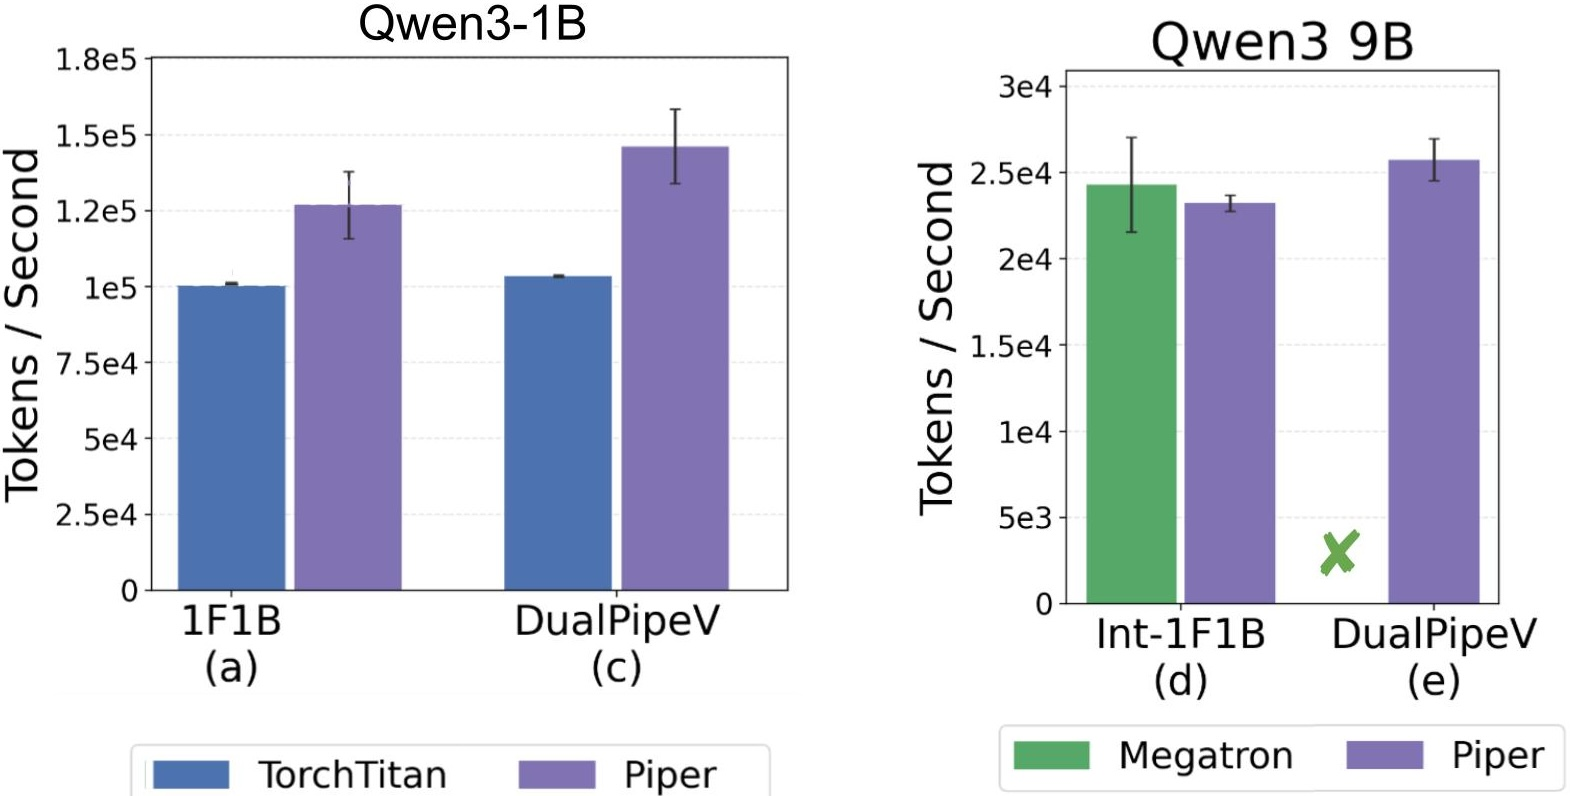
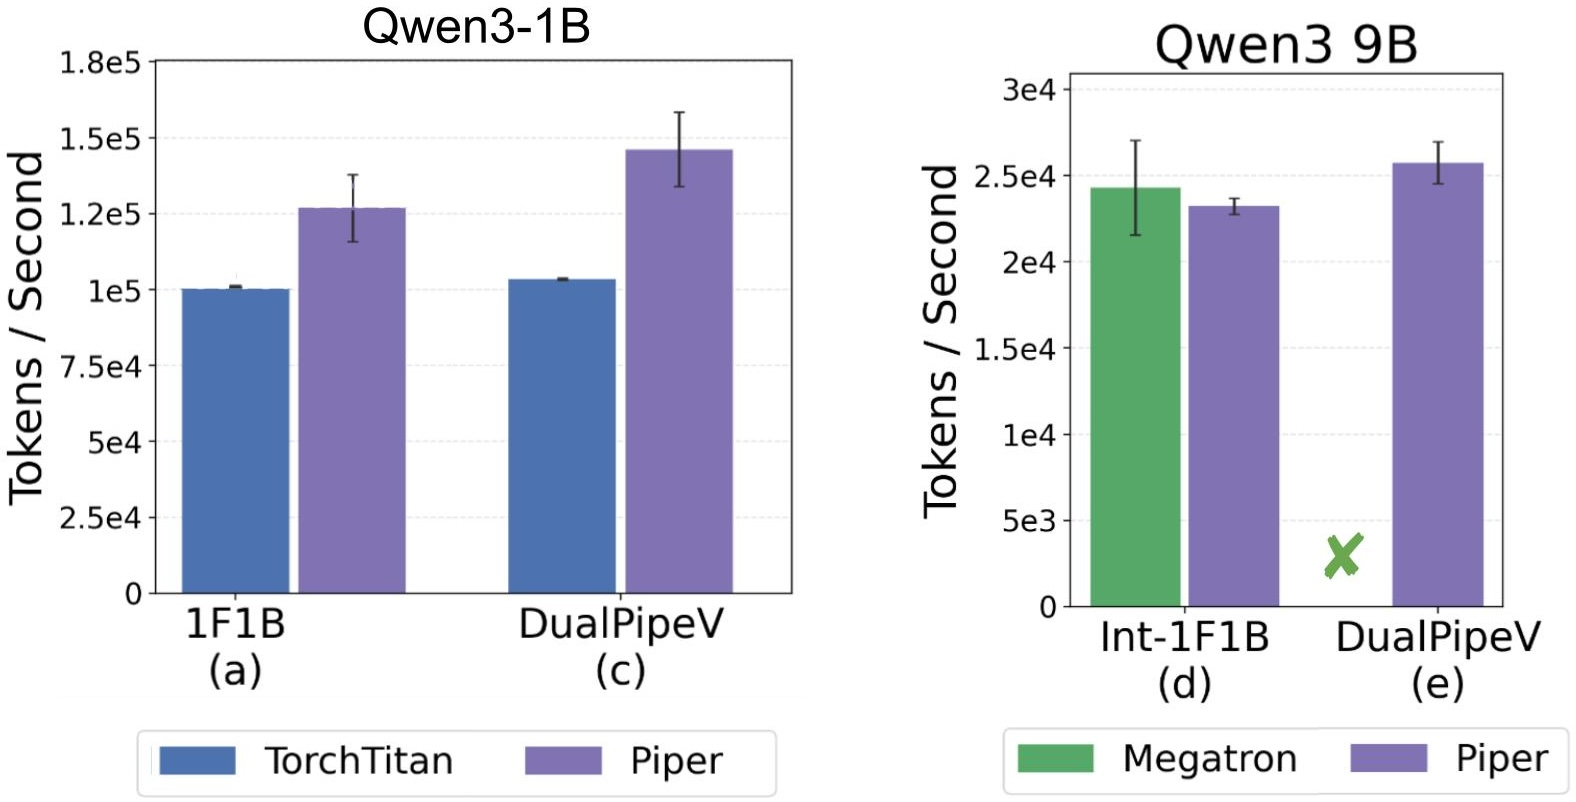
Piper blog fixes and arxiv link (#43)
* piper blog post

* update tldr

* shubham feedback

* Update _posts/2026-06-05-piper.md

* Update _posts/2026-06-05-piper.md

* Update _posts/2026-06-05-piper.md

* add tensor parallelism

* key idea transition

* Update _posts/2026-06-05-piper.md

* Update _posts/2026-06-05-piper.md

* Update _posts/2026-06-05-piper.md

* stephanie feedback

* excerpt nit

* higher image res

* fix links

* fix links

* michael feedback

* fix links

* minor fixes: img res and figure captions

* small fixes

* arxiv link

* merge fix

---------

diff --git a/_posts/2026-06-05-piper.md b/_posts/2026-06-05-piper.md
@@ -3,7 +3,7 @@ layout: post
 title: "Introducing Piper: A Programmable Distributed Training System"
 date: 2026-06-05
 author: "Megan Frisella, Shubham Tiwari, Andy Ruan, Yi Pan, Parker Gustafson, Mat Jacob, Gilbert Bernstein, Stephanie Wang"
-excerpt: "Piper is a programmable distributed training system that uses model annotations and scheduling directives to express model placement, pipeline scheduling, and GPU stream scheduling."
+excerpt: "We present Piper, a programmable distributed training system that uses model annotations and scheduling directives to express model placement, pipeline scheduling, and GPU stream scheduling."
 ---
 
 **TL;DR:** New distributed training strategies and optimizations should not require new distributed runtimes.
@@ -14,7 +14,7 @@ Today, ML researchers and practitioners choose between building one-off speciali
 implementation.
 With lightweight model annotations and a small scheduling language, Piper lets users express, visualize, profile, and run high-performance training schedules such as DualPipe-style pipeline- and expert-parallel overlap.
 
-- paper: arXiv release pending
+- paper: [https://arxiv.org/pdf/2606.11169](https://arxiv.org/pdf/2606.11169)
 - code: [https://github.com/uw-syfi/piper](https://github.com/uw-syfi/piper)
 
 ---
@@ -33,7 +33,8 @@ Composing parallelism strategies is not one-size-fits-all; the right choice depe
 Figure 1 depicts a mixture-of-experts (MoE) model with pipeline parallelism across layers and data/expert parallelism within layers. 
 
 {: style="text-align:center"}
-![PP x EP x DP placement for a DualPipe-style MoE example.](/assets/img/blog/2026-06-05-piper/placement.png)
+![PP x EP x DP placement for a DualPipe-style MoE example.](/assets/img/blog/2026-06-05-piper/placement.jpg)
+
 ***Figure 1.** A PP x EP x DP placement for a mixture-of-experts model.
 Pipeline parallelism places layers across stages, expert parallelism shards expert MLPs, and data parallelism replicates non-expert components like attention.*
 
@@ -51,6 +52,7 @@ Figure 2 shows a [DualPipe schedule variant](https://huggingface.co/blog/ufotale
 
 {: style="text-align:center"}
 ![DualPipeV pipeline schedule.](/assets/img/blog/2026-06-05-piper/dualpipe.jpg)
+
 ***Figure 2.** DualPipeV schedule for 2-way PP and 4 microbatches. 
 Numbers are microbatch IDs.
 The bolded cells are overlapped forward-backward microbatch pairs.*
@@ -60,6 +62,7 @@ Figure 3 shows different GPU scheduling choices, where streams represent GPU par
 
 {: style="text-align:center"}
 ![Communication stream tradeoffs.](/assets/img/blog/2026-06-05-piper/streams.jpg)
+
 ***Figure 3.** Stream scheduling choices for DP all-reduce and EP all-to-all in an overlapped microbatch pair.
 The best choice depends on kernel running times, dispatch ordering, and critical-path dependencies.*
 
@@ -93,6 +96,7 @@ Each worker manages local CUDA streams, communicators, model-state buffers, and 
 
 {: style="text-align:center"}
 ![Piper architecture.](/assets/img/blog/2026-06-05-piper/architecture.jpg)
+
 ***Figure 4.** Piper's architecture.
 The user provides an annotated model and schedule; Piper compiles them into a global training DAG and executes per-worker sub-DAGs with a distributed runtime.*
 
@@ -366,6 +370,7 @@ The simple pipeline schedule from the demo emits the following visualization:
 
 {: style="text-align:center"}
 ![Pipeline schedule with overlapped microbatches](/assets/img/blog/2026-06-05-piper/schedule.png)
+
 ***Figure 5.** A simple pipeline schedule with 2-way PP, 2 microbatches, and an overlapped forward-backward microbatch pair.*
 
 The second utility is a DAG IR visualization.
@@ -374,6 +379,7 @@ This helps identify how operators will be overlapped on the GPU.
 
 {: style="text-align:center"}
 ![Training DAG snippet](/assets/img/blog/2026-06-05-piper/dag.png)
+
 ***Figure 6.** DAG IR snippet for an overlapped forward-backward microbatch pair.*
 
 This is a snippet of the PP rank 1 (GPUs 1 and 3) training DAG for our working example.
@@ -384,11 +390,12 @@ The topological order (identified by `topo=x`) identifies the runtime dispatch o
 Piper uses temporal dependencies to enforce overlapping by constraining total orderings per logical stream (e.g. `ep_stream` comms all have unique `topo` index, and the same goes for `dp_stream` comms).
 Runtime scheduling heuristics resolve ambiguous topological ordering across streams by prioritizing `SEND` > all other nodes > `RECV` to avoid point-to-point communication interference. 
 
-The last visualization utility is custom PyTorch profiler which labels the GPU kernels associated with each DAG IR node.
-Figure 7 shows the profiler trace for an overlapped forward-backward microbatch.
+The last visualization utility is custom PyTorch profiler support which combines the profiles for all the PP ranks in each SPMD group and labels the GPU kernels associated with each DAG IR node.
+Figure 7 shows the profiler trace for an overlapped forward-backward microbatch on PP rank 1 of our working example.
 
 {: style="text-align:center"}
 ![PyTorch profile](/assets/img/blog/2026-06-05-piper/profile.jpg)
+
 ***Figure 7.** Profile for an overlapped forward-backward microbatch pair. EP and DP collective communications are completely hidden.*
 
 All-to-all kernels on the EP stream and all-reduce kernels on the DP stream are completely overlapped with computation.
@@ -405,7 +412,7 @@ We hope that researchers will implement new schedule builders to experiment with
 We imagine the pipeline schedule visualizer will help with visual debugging. 
 Piper also has safe guards which require `order` directives to respect the model's dataflow and device placement.
 
-We will walk through our [DualPipeV](https://huggingface.co/blog/ufotalent/cut-in-half) schedule builder at a high level.
+We will walk through our [DualPipeV schedule builder](https://github.com/uw-syfi/piper/blob/c531ef669b32402ebf8f7eafec37ae2f37e1ac8e/examples/build_schedule.py#L201) at a high level.
 
 ```python
 def build_dualpipev_schedule(n_ranks: int, n_mbs: int) -> list[dict]:
@@ -465,7 +472,7 @@ for i in range(n_mbs - n_ranks * 2 + rank + 1):
 ...
 ```
 
-Before returning, `_order_directive_from_slots` lowers the slot array to the JSON `order` format.
+Before returning, [`_order_directive_from_slots`](https://github.com/uw-syfi/piper/blob/c531ef669b32402ebf8f7eafec37ae2f37e1ac8e/examples/build_schedule.py#L34) lowers the slot array to the JSON `order` format.
 
 ### Run the walkthrough example
 
@@ -507,6 +514,7 @@ TorchTitan is the only baseline which supports DualPipe-like all-to-all overlapp
 
 {: style="text-align:center"}
 ![PP x EP throughput for 1F1B, interleaved 1F1B, and DualPipeV.](/assets/img/blog/2026-06-05-piper/throughput.jpg)
+
 ***Figure 8.** PP x EP throughput for Qwen3 1B and Qwen3 9B with various pipeline schedules.*
 
 On Qwen3 1B, Piper-DualPipeV improves throughput by 13% over Piper-1F1B.
@@ -535,6 +543,7 @@ We illustrate this in Figure 9, which shows that Piper supports much larger batc
 
 {: style="text-align:center"}
 ![PP x ZeRO memory consumption.](/assets/img/blog/2026-06-05-piper/memory.jpg)
+
 ***Figure 9.** Peak memory for PP x ZeRO-2 and PP x ZeRO-3 on Qwen3 9B.*
 
 ## Closing
